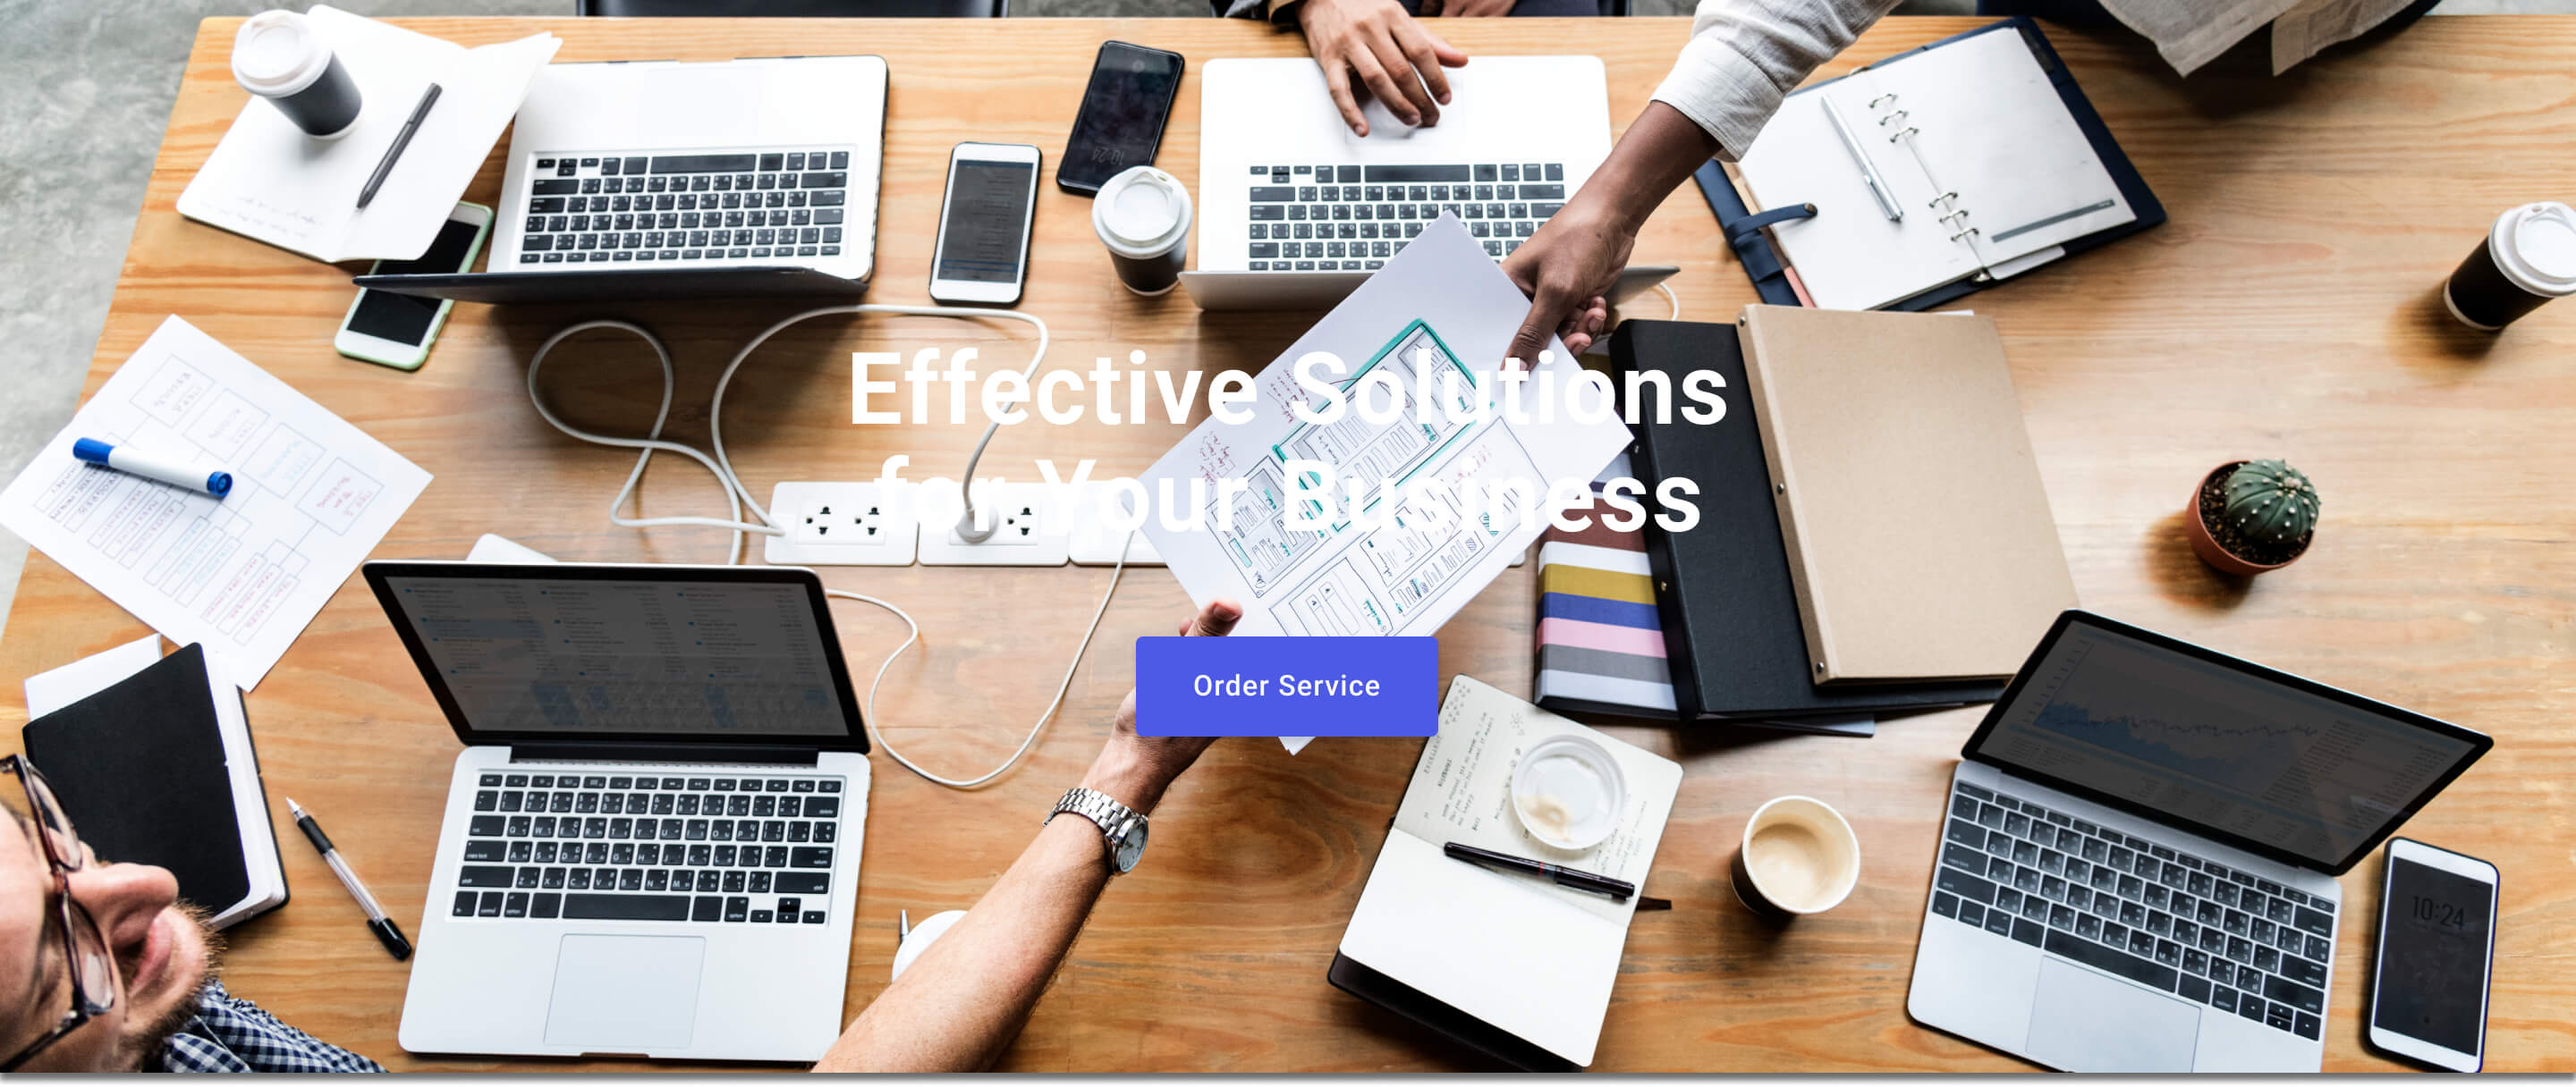
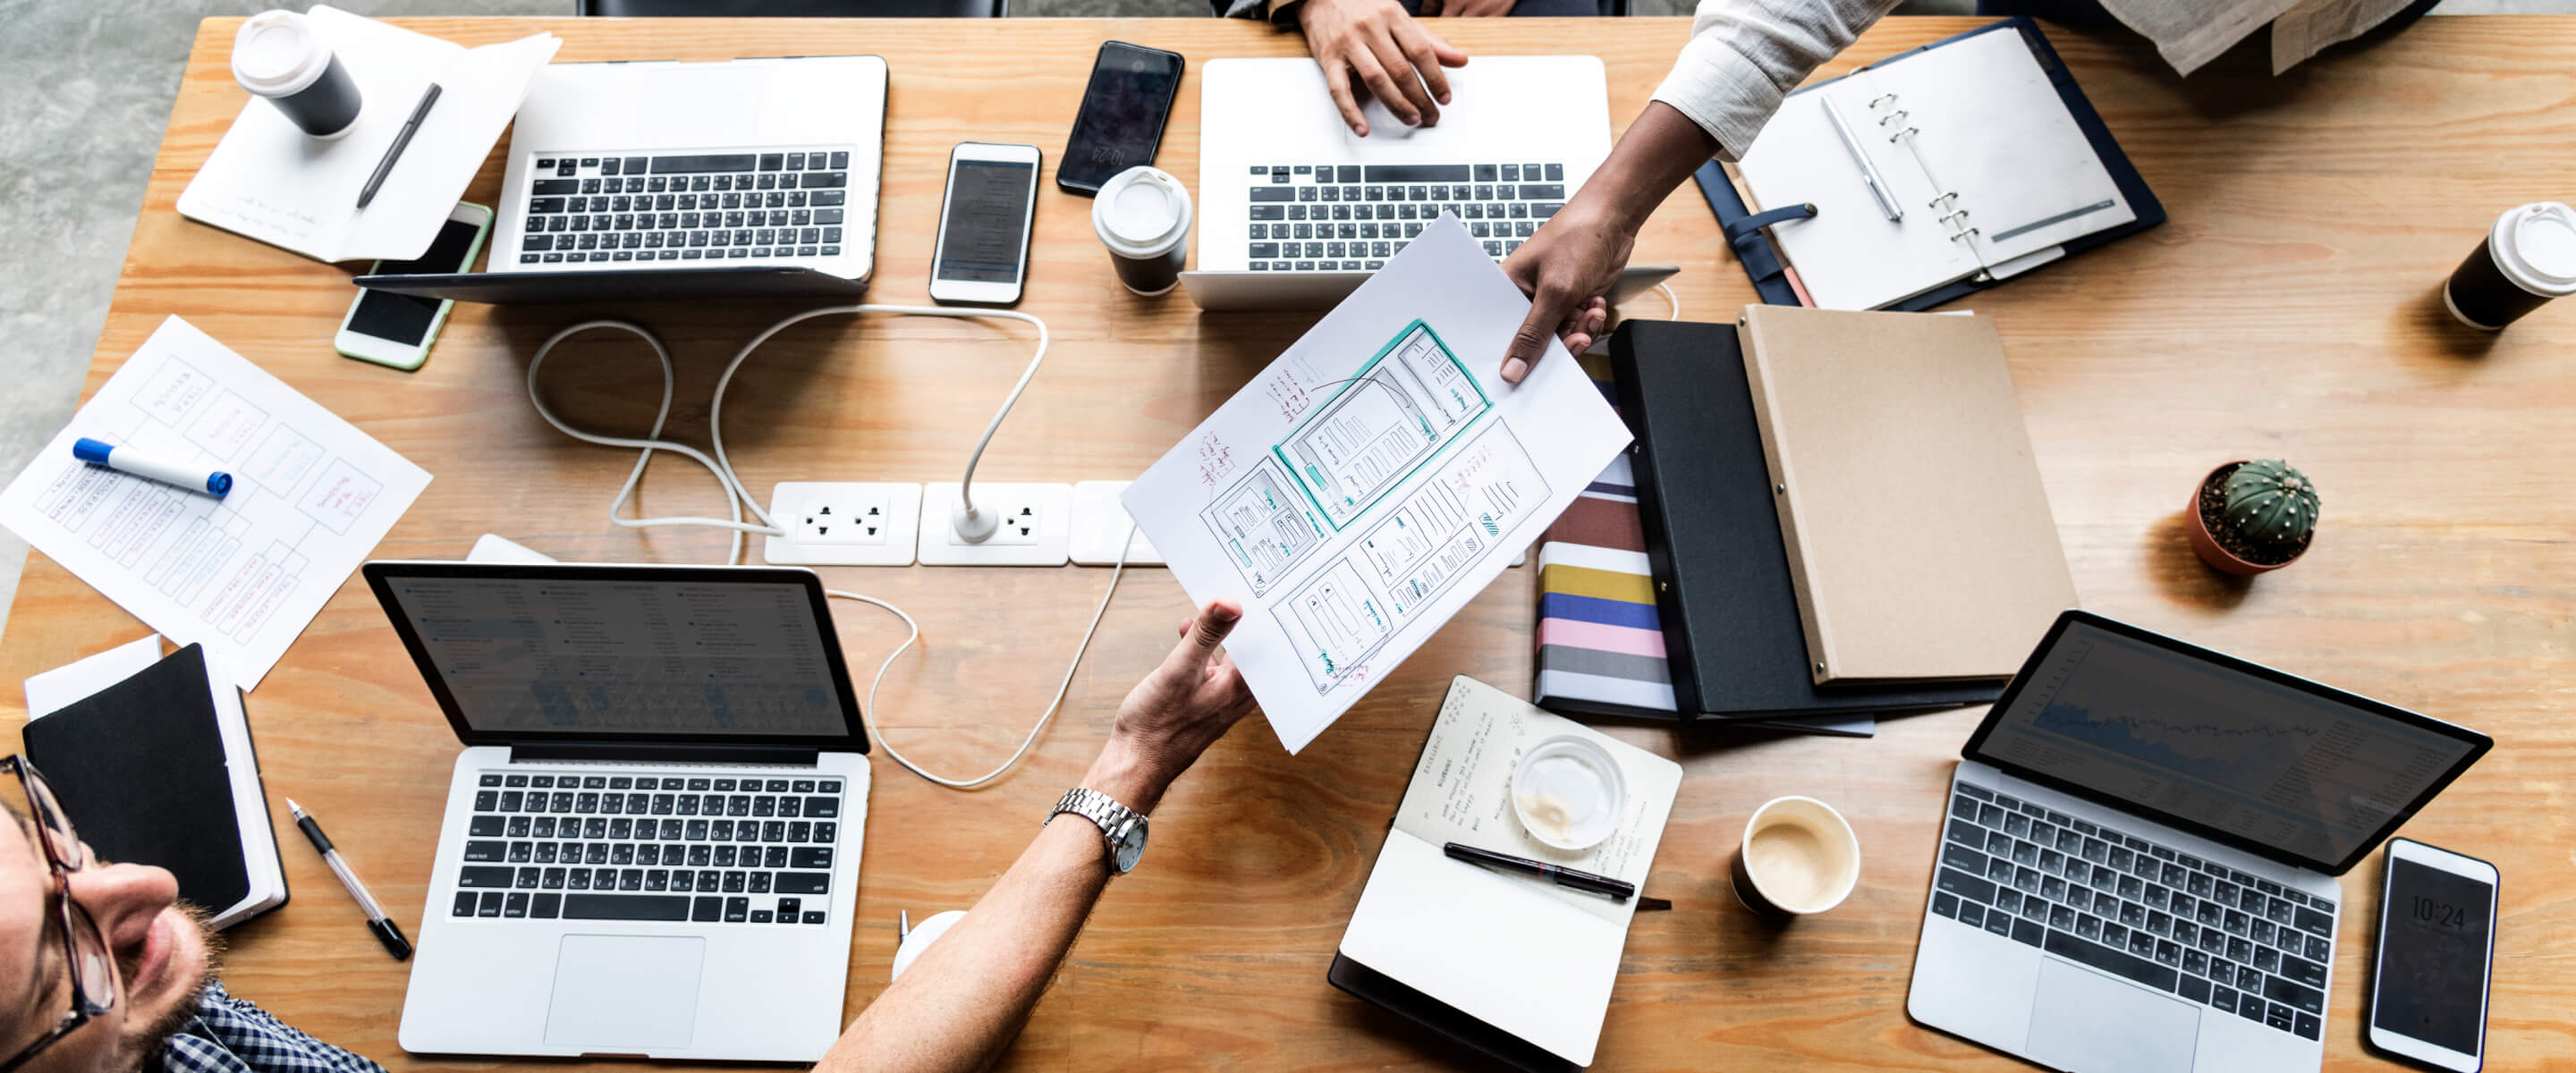
pic

diff --git a/css/styles.css b/css/styles.css
@@ -170,7 +170,7 @@ font-style: normal;
   .hero-section {
     background-image: linear-gradient(rgba(46, 47, 66, 0.7),
         rgba(46, 47, 66, 0.7)),
-      url(../images/main-2x.jpg);
+      url(../images/main-mob-2x.jpg);
   }
 }
 
